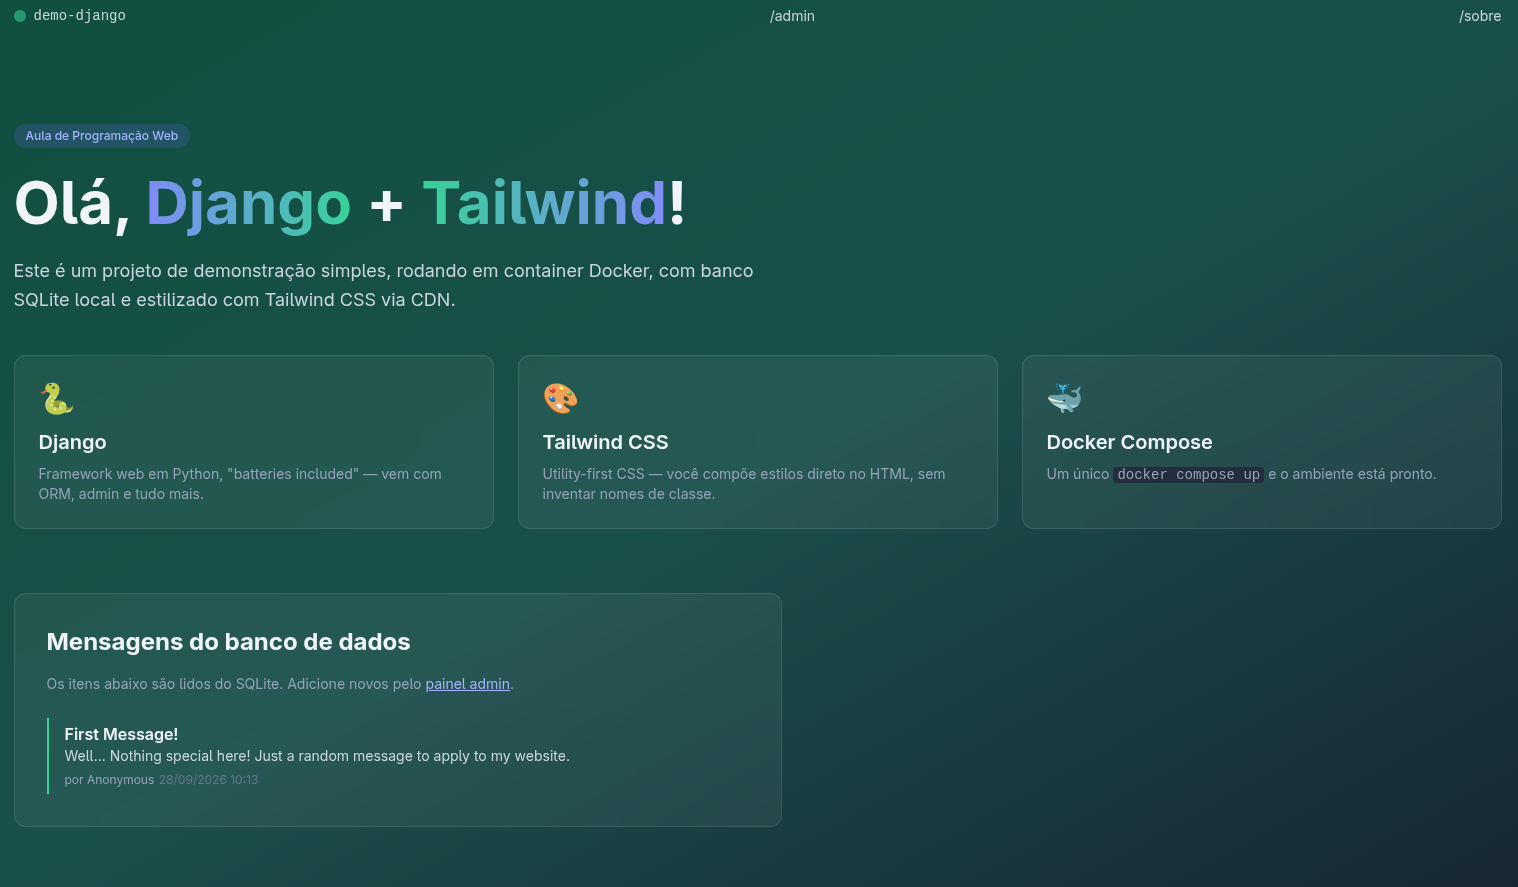
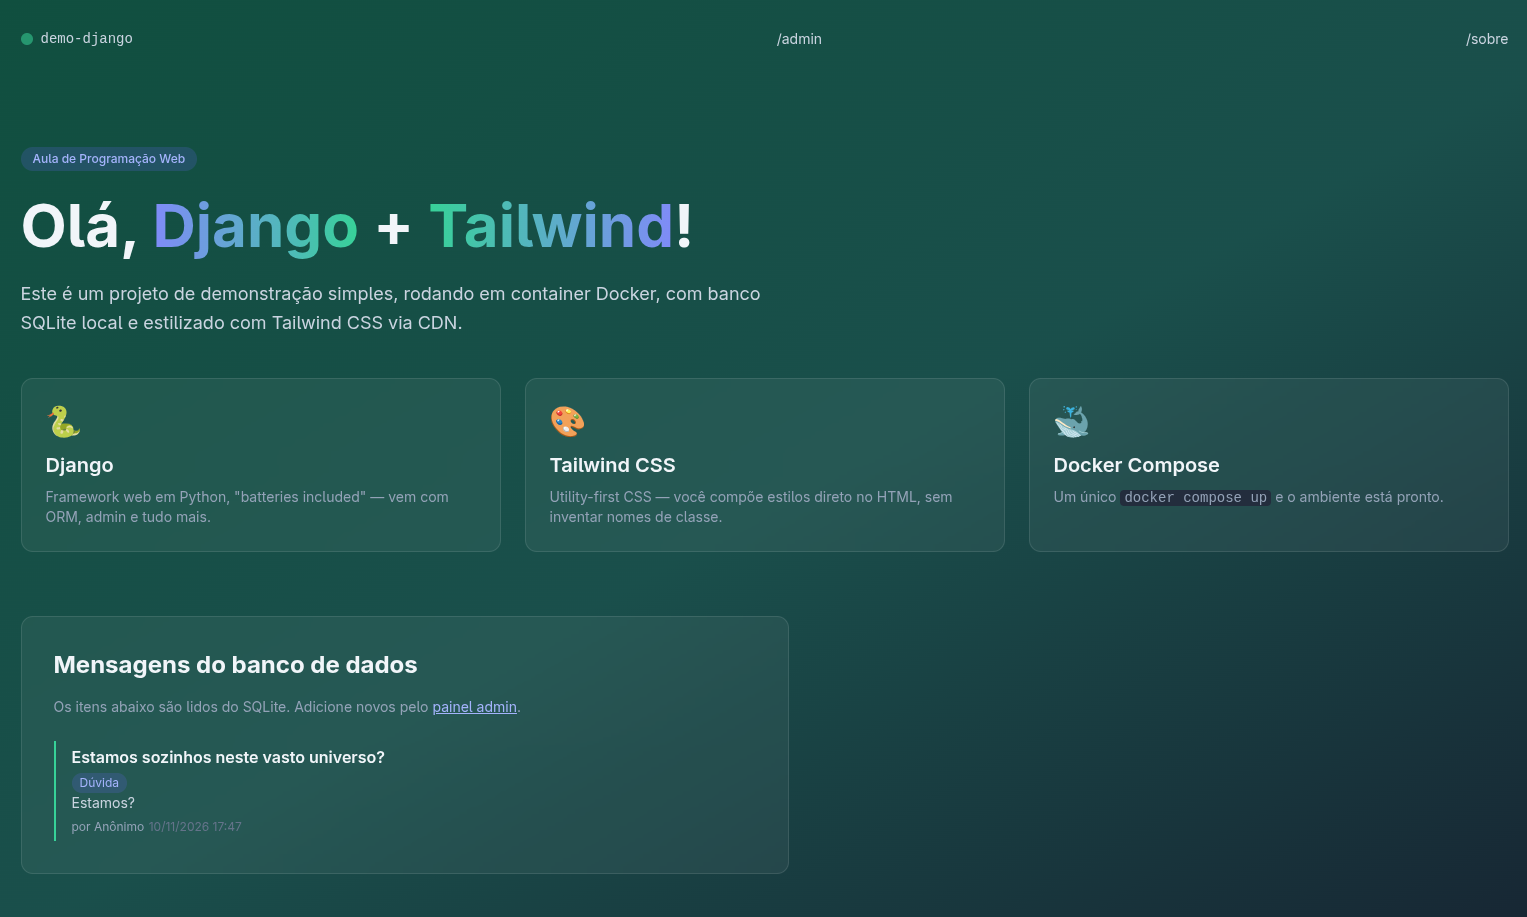
v.1.0.1 - Third part of the project

diff --git a/demo-django/templates/home/index.html b/demo-django/templates/home/index.html
@@ -66,6 +66,11 @@
                     {% for m in mensagens %}
                         <li class="border-l-2 border-emerald-400 pl-4 py-1">
                             <h3 class="font-semibold">{{ m.titulo }}</h3>
+                                {% if m.categoria %}
+                                    <span class="inline-block px-2 py-0.5 mt-1 bg-indigo-500/20 text-indigo-300 text-xs rounded-full">
+                                        {{ m.categoria.nome }}
+                                    </span>
+                                {% endif %}
                             <p class="text-sm text-slate-300">{{ m.conteudo }}</p>
                             <span class="text-xs text-slate-400">por {{ m.autor }}</span>
                             <span class="text-xs text-slate-500">{{ m.criada_em|date:"d/m/Y H:i" }}</span>

diff --git a/demo-django/home/migrations/0003_categoria_alter_mensagem_autor_mensagem_categoria.py b/demo-django/home/migrations/0003_categoria_alter_mensagem_autor_mensagem_categoria.py
@@ -1,0 +1,34 @@
+# Generated by Django 5.1.3 on 2026-11-10 20:35
+
+import django.db.models.deletion
+from django.db import migrations, models
+
+
+class Migration(migrations.Migration):
+
+    dependencies = [
+        ('home', '0002_mensagem_autor'),
+    ]
+
+    operations = [
+        migrations.CreateModel(
+            name='Categoria',
+            fields=[
+                ('id', models.BigAutoField(auto_created=True, primary_key=True, serialize=False, verbose_name='ID')),
+                ('nome', models.CharField(max_length=50, unique=True)),
+            ],
+            options={
+                'ordering': ['nome'],
+            },
+        ),
+        migrations.AlterField(
+            model_name='mensagem',
+            name='autor',
+            field=models.CharField(default='Anônimo', max_length=80),
+        ),
+        migrations.AddField(
+            model_name='mensagem',
+            name='categoria',
+            field=models.ForeignKey(blank=True, null=True, on_delete=django.db.models.deletion.SET_NULL, related_name='mensagens', to='home.categoria'),
+        ),
+    ]

diff --git a/demo-django/home/models.py b/demo-django/home/models.py
@@ -1,10 +1,29 @@
 from django.db import models
 
-# Create your models here.
+from django.db import models
+
+
+class Categoria(models.Model):                                  # ← novo model
+    nome = models.CharField(max_length=50, unique=True)
+
+    class Meta:
+        ordering = ["nome"]
+
+    def __str__(self):
+        return self.nome
+
+
 class Mensagem(models.Model):
     titulo = models.CharField(max_length=120)
     conteudo = models.TextField()
-    autor = models.CharField(max_length=80, default="Anonymous")
+    autor = models.CharField(max_length=80, default="Anônimo")
+    categoria = models.ForeignKey(                              # ← novo campo
+        Categoria,
+        on_delete=models.SET_NULL,
+        null=True,
+        blank=True,
+        related_name="mensagens",
+    )
     criada_em = models.DateTimeField(auto_now_add=True)
 
     class Meta:

diff --git a/demo-django/home/admin.py b/demo-django/home/admin.py
@@ -1,8 +1,12 @@
 from django.contrib import admin
 
 # Register your models here.
-from .models import Mensagem
+from .models import Categoria, Mensagem
 
+@admin.register(Categoria)                                       # ← novo
+class CategoriaAdmin(admin.ModelAdmin):
+    list_display = ("nome",)
+    search_fields = ("nome",)
 
 @admin.register(Mensagem)
 class MensagemAdmin(admin.ModelAdmin):
